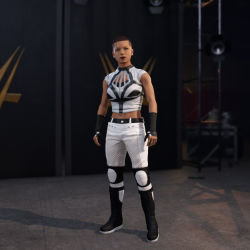
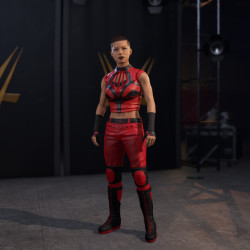
New roster renders

diff --git a/index.html b/index.html
@@ -164,7 +164,7 @@
 
 	async function loadTest()
 	{
-		const response = await fetch("roster.json?v=1.14");
+		const response = await fetch("roster.json?v=1.15");
 		const json = await response.text();
 		//console.log(json);
 		
